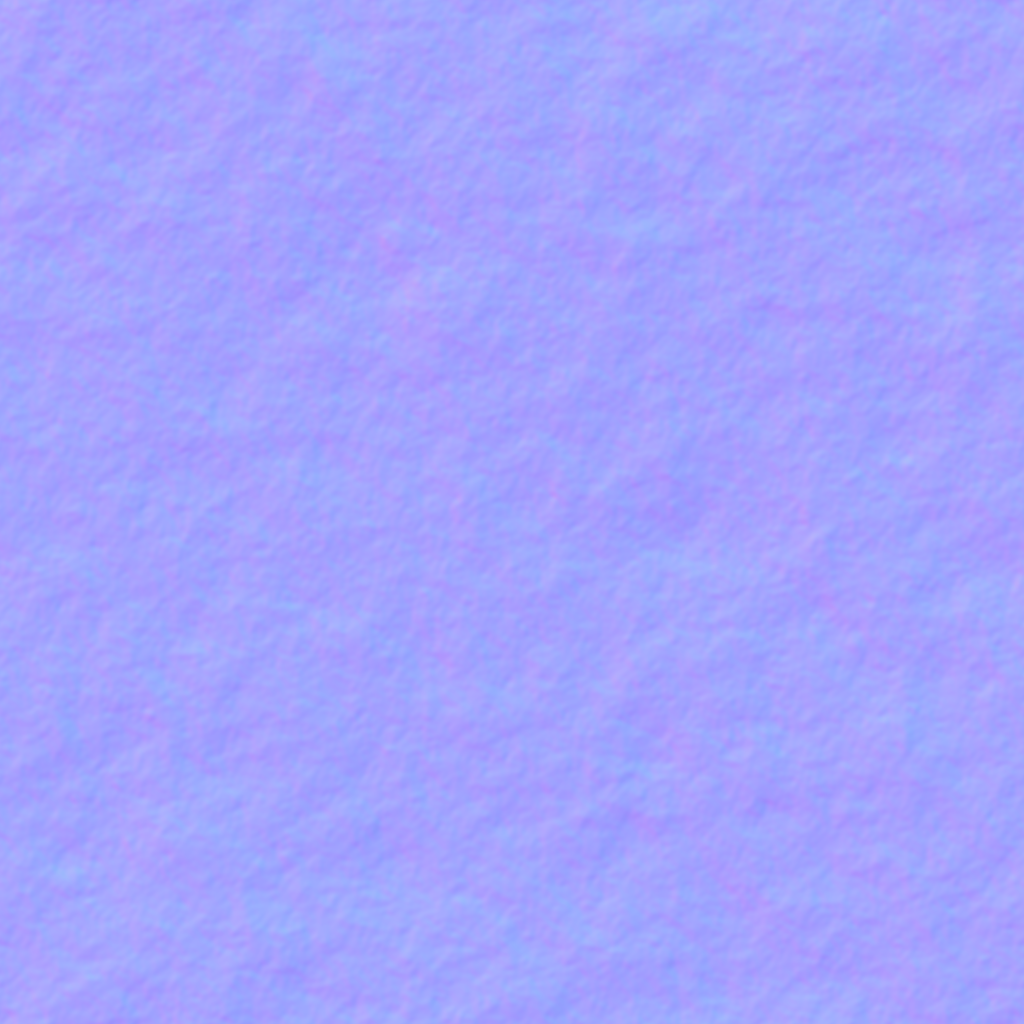
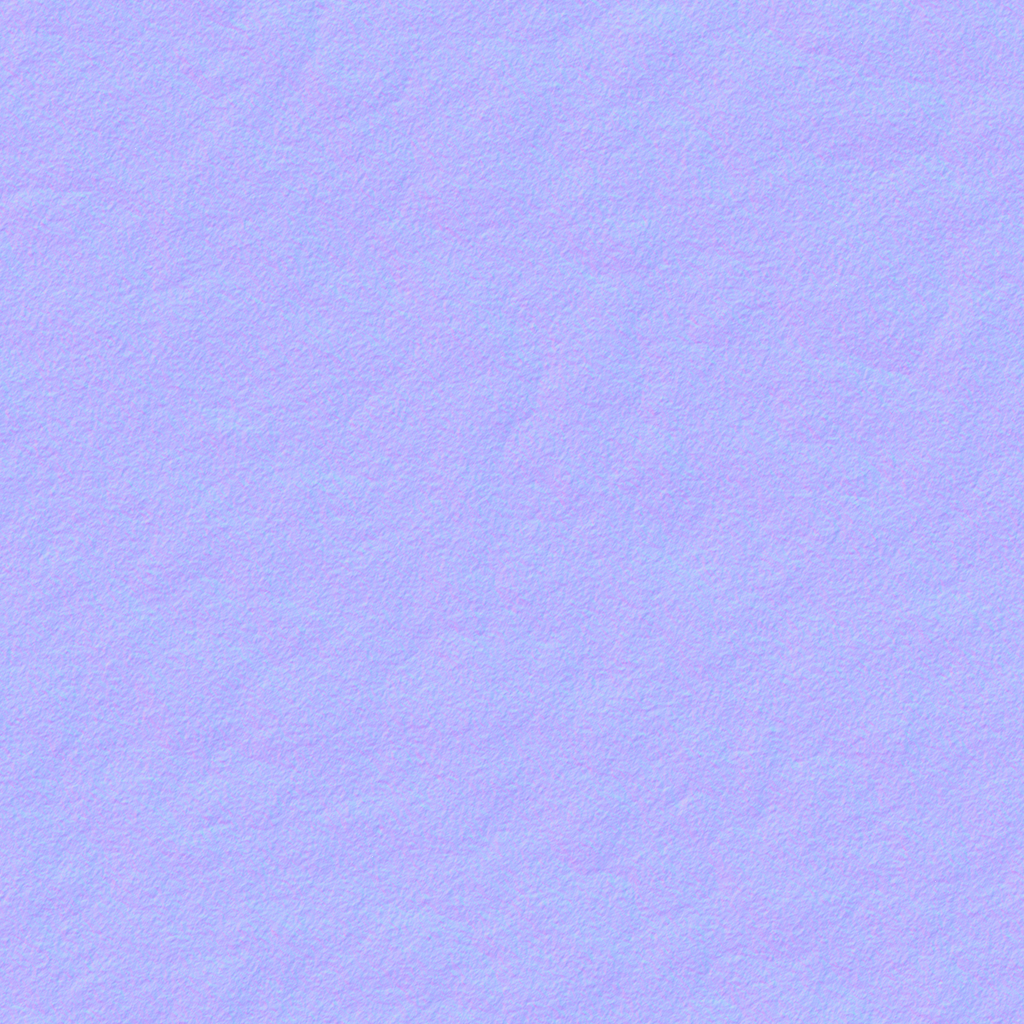
Art pass 2: crisp snow grain/ridges/glint roughness, desaturated blue dusk grade, softer macro variation
Claude-Session: https://claude.ai/code/session_01KouGuuUMDCHbn74VPHDbhr

diff --git a/tools/terrain/gen_textures.py b/tools/terrain/gen_textures.py
@@ -63,14 +63,18 @@ def save(name, rgb, height, rough, nstrength):
 def snow():
     big = norm01(fbm(3, 2, 0.5, 1))
     ripple = norm01(fbm(4, 10, 0.55, 2))
-    h = 0.6 * big + 0.4 * ripple
-    base = np.array([0.90, 0.93, 0.98])
-    shade = np.array([0.74, 0.82, 0.94])
-    rgb = lerp(np.broadcast_to(base, (N, N, 3)).copy(), np.broadcast_to(shade, (N, N, 3)).copy(), (1 - big) * 0.55)
-    sparkle = (norm01(fbm(1, 220, 1.0, 3)) > 0.985).astype(np.float32) * 0.06
-    rgb += sparkle[..., None]
-    save("snow", rgb, h, np.full((N, N), 0.72, np.float32), 9.0)
-
+    grain = norm01(fbm(3, 160, 0.6, 5))
+    wind = norm01(fbm(2, 3, 0.5, 8))
+    # wind-scoured ridges: sharpen a mid-frequency band
+    ridge = 1.0 - np.abs(2.0 * norm01(fbm(3, 6, 0.5, 11)) - 1.0)
+    h = 0.42 * big + 0.26 * ripple + 0.16 * ridge ** 2 + 0.16 * grain
+    base = np.array([0.93, 0.95, 0.99])
+    shade = np.array([0.82, 0.88, 0.97])
+    rgb = lerp(np.broadcast_to(base, (N, N, 3)).copy(), np.broadcast_to(shade, (N, N, 3)).copy(), (1 - wind) * 0.28)
+    rgb *= (0.97 + 0.06 * grain)[..., None]
+    glint = (norm01(fbm(1, 300, 1.0, 3)) > 0.975).astype(np.float32)
+    rough = 0.62 - 0.22 * glint - 0.1 * grain
+    save("snow", rgb, h, rough.astype(np.float32), 7.0)
 
 def rock():
     facets = norm01(fbm(3, 3, 0.6, 4))
